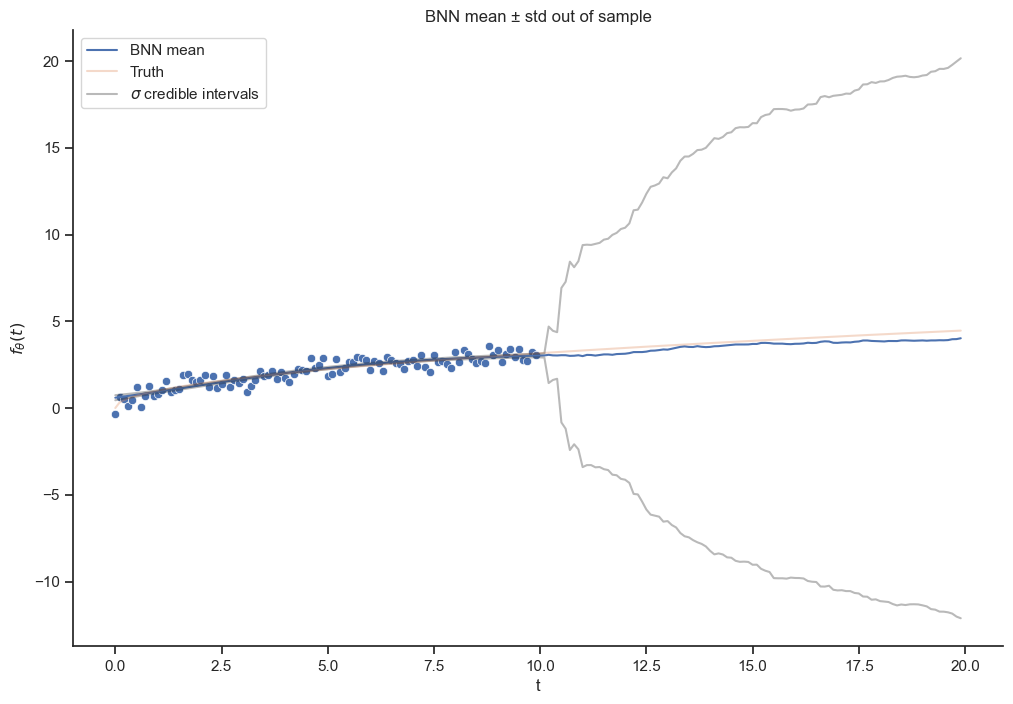
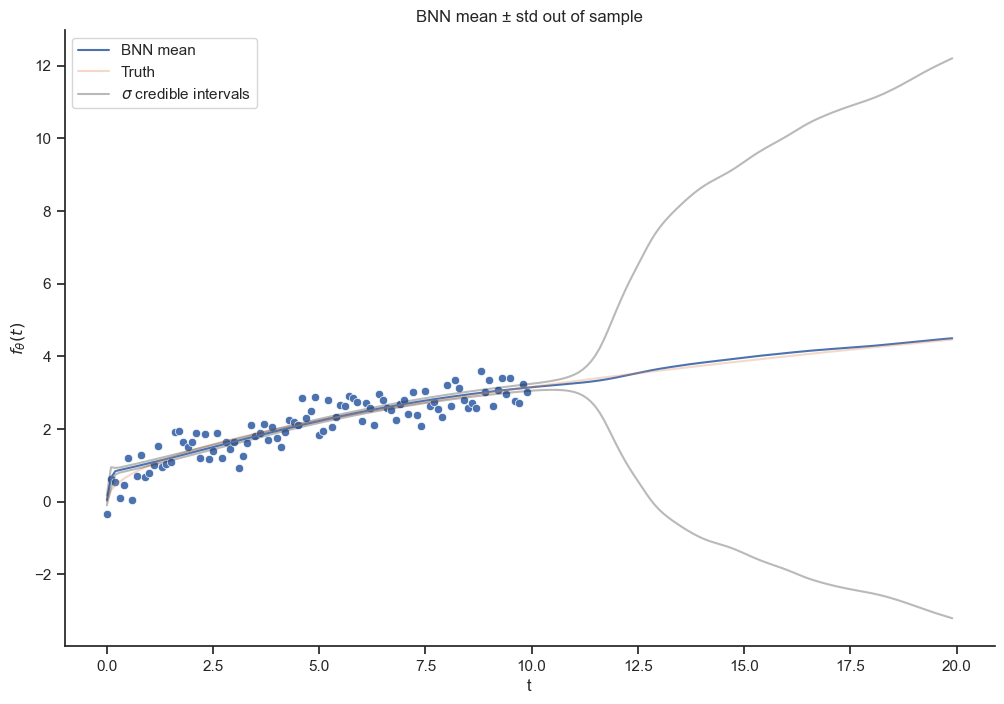
render LLMs 2025

diff --git a/docs/posts/Bayesian Persuasion/bn.html b/docs/posts/Bayesian Persuasion/bn.html
@@ -361,12 +361,12 @@ window.Quarto = {
 <p>We have successfully sampled from the posterior distribution <span class="math inline">\(p(\theta|x)\)</span> and found that <span class="math inline">\(\theta \approx 0.38\)</span> with quite some certainty.</p>
 <p>What about the predicted values <span class="math inline">\(\tilde{x}(t)\)</span> given this model? This is also probabilistic given the posterior distribution of <span class="math inline">\(\theta\)</span>. These values are distributed according to the posterior predictive distribution <span class="math display">\[p(\tilde{x}(t)|x) = \int p(\tilde{x}(t)|\theta ) p(\theta|x(t)) d\theta\]</span></p>
 <p>This involves sampling <span class="math inline">\(\tilde{x}(t) \sim N(\mu_x = \theta t, \sigma_x = 1)\)</span>, but in the following sections we’ll drop the aleatoric uncertainty <span class="math inline">\(\sigma_x\)</span> and only consider the epistemic uncertainty in the model parameters.</p>
-<p>We’re essentially looking for the probability of the mean of <span class="math inline">\(\tilde{x}\)</span> given all our data x by averaging over <span class="math inline">\(\theta\)</span> from the posterior.</p>
+<p>We’re essentially looking for the probability of the mean of <span class="math inline">\(\tilde{x}\)</span> given all our data x by sampling <span class="math inline">\(\theta\)</span> from the posterior.</p>
 <p>For example <span class="math inline">\(\tilde{x}(t=4).\)</span></p>
-<div id="cell-16" class="cell" data-execution_count="28">
+<div id="cell-16" class="cell" data-execution_count="7">
 <div class="sourceCode cell-code" id="cb8"><pre class="sourceCode python code-with-copy"><code class="sourceCode python"><span id="cb8-1"><a href="#cb8-1" aria-hidden="true" tabindex="-1"></a>posterior_predictive_samples<span class="op">=</span>[lm(theta, <span class="dv">4</span>) <span class="cf">for</span> theta <span class="kw">in</span> posterior_samples]</span>
 <span id="cb8-2"><a href="#cb8-2" aria-hidden="true" tabindex="-1"></a>sns.histplot(posterior_predictive_samples, bins<span class="op">=</span><span class="dv">30</span>, stat<span class="op">=</span><span class="st">"probability"</span>)<span class="op">;</span></span>
-<span id="cb8-3"><a href="#cb8-3" aria-hidden="true" tabindex="-1"></a>plt.title(<span class="vs">r"$\mathbf</span><span class="sc">{E}</span><span class="vs">_{\theta \sim p(\theta | x)} [\tilde</span><span class="sc">{x}</span><span class="vs">(t=4)|\theta]$"</span>)<span class="op">;</span></span>
+<span id="cb8-3"><a href="#cb8-3" aria-hidden="true" tabindex="-1"></a>plt.title(<span class="vs">r"$\mathbf</span><span class="sc">{E}</span><span class="vs">[\tilde</span><span class="sc">{x}</span><span class="vs">(t=4)|\theta]$"</span>)<span class="op">;</span></span>
 <span id="cb8-4"><a href="#cb8-4" aria-hidden="true" tabindex="-1"></a>plt.xlabel(<span class="vs">r"$\tilde</span><span class="sc">{x}</span><span class="vs">(t=4)$"</span>)<span class="op">;</span></span></code><button title="Copy to Clipboard" class="code-copy-button"><i class="bi"></i></button></pre></div>
 <div class="cell-output cell-output-display">
 <div>
@@ -506,7 +506,7 @@ window.Quarto = {
 <div class="sourceCode cell-code" id="cb20"><pre class="sourceCode python code-with-copy"><code class="sourceCode python"><span id="cb20-1"><a href="#cb20-1" aria-hidden="true" tabindex="-1"></a><span class="im">import</span> blackjax</span>
 <span id="cb20-2"><a href="#cb20-2" aria-hidden="true" tabindex="-1"></a>rng_key <span class="op">=</span> PRNGKey(<span class="dv">0</span>)</span>
 <span id="cb20-3"><a href="#cb20-3" aria-hidden="true" tabindex="-1"></a>rng_key, rng_subkey <span class="op">=</span> jax.random.split(rng_key)</span>
-<span id="cb20-4"><a href="#cb20-4" aria-hidden="true" tabindex="-1"></a>num_warmup <span class="op">=</span> <span class="dv">100000</span></span>
+<span id="cb20-4"><a href="#cb20-4" aria-hidden="true" tabindex="-1"></a>num_warmup <span class="op">=</span> <span class="dv">10000</span></span>
 <span id="cb20-5"><a href="#cb20-5" aria-hidden="true" tabindex="-1"></a>num_samples <span class="op">=</span> <span class="dv">5000</span></span></code><button title="Copy to Clipboard" class="code-copy-button"><i class="bi"></i></button></pre></div>
 </div>
 <div id="cell-37" class="cell" data-execution_count="20">
@@ -546,8 +546,8 @@ window.Quarto = {
 <span id="cb25-5"><a href="#cb25-5" aria-hidden="true" tabindex="-1"></a>t_oos<span class="op">=</span>jnp.arange(<span class="dv">0</span>,<span class="dv">20</span>,<span class="fl">.1</span>)</span>
 <span id="cb25-6"><a href="#cb25-6" aria-hidden="true" tabindex="-1"></a>res_oos <span class="op">=</span> jax.vmap(eval_fn, in_axes<span class="op">=</span>(<span class="dv">0</span>, <span class="va">None</span>))(posterior_params, t_oos).squeeze()</span></code><button title="Copy to Clipboard" class="code-copy-button"><i class="bi"></i></button></pre></div>
 </div>
-<p>Here we’ve taken posterior samples of the neural network parameters <span class="math inline">\(\theta\)</span> and evaluated the model with them, collecting the different outputs. This yields samples of the model’s mean prediction.</p>
-<p>It is also possible to sample from the full posterior predictive distribution by including the variance from the likelihood, but we’ll stick with the mean prediction. You can also estimate the aleatoric uncertainty, here we arbitrarily set it to <span class="math inline">\(\sigma=0.5\)</span>. If this is your goal I would recommend using a PPL.</p>
+<p>Here we’ve taken posterior samples of the neural network parameters <span class="math inline">\(\theta\)</span> and evaluated the model with them, collecting the different outputs. This yields samples of the model’s mean prediction given <span class="math inline">\(\theta\)</span> from the posterior.</p>
+<p>It is also possible to sample from the full posterior predictive distribution by including the aleatoric uncertainty from the likelihood <span class="math inline">\(\sigma\)</span>, but we’ll stick with the mean prediction. You can also estimate <span class="math inline">\(\sigma\)</span>, here we arbitrarily set it to <span class="math inline">\(\sigma=0.5\)</span>. If this is your goal I would recommend using a PPL.</p>
 <div id="cell-43" class="cell" data-execution_count="25">
 <div class="sourceCode cell-code" id="cb26"><pre class="sourceCode python code-with-copy"><code class="sourceCode python"><span id="cb26-1"><a href="#cb26-1" aria-hidden="true" tabindex="-1"></a>df_res<span class="op">=</span>pd.DataFrame(res).T</span>
 <span id="cb26-2"><a href="#cb26-2" aria-hidden="true" tabindex="-1"></a>df_oos<span class="op">=</span>pd.DataFrame(res_oos).T</span></code><button title="Copy to Clipboard" class="code-copy-button"><i class="bi"></i></button></pre></div>
@@ -592,8 +592,12 @@ window.Quarto = {
 </div>
 </div>
 </div>
-<p>When using a BNN our predictions are samples drawn from the posterior predictive distribution, this has the benefit of informing us about the model’s uncertainty (about the model parameters in this case). In-sample the model fits the data quite well with no obvious overfitting. We see that the standard deviation grows when we try to extrapolate. Maybe someday LLMs will have this feature instead of confidently recommending eating rocks.</p>
-<p><img src="GPT_rocks.jpeg" class="img-fluid"></p>
+<p>When using a BNN our predictions are generally samples drawn from the posterior predictive distribution, this has the benefit of informing us about the model’s uncertainty (about the model parameters in this case). In-sample the model fits the data quite well with no obvious overfitting. We see that the standard deviation grows when we try to extrapolate. Maybe someday LLMs will have this feature instead of confidently recommending eating rocks.</p>
+<div data-align="center">
+<figure class="figure">
+<img src="GPT_rocks.jpeg" style="margin: auto;" class="figure-img">
+</figure>
+</div>
 
 
 </section>

diff --git a/docs/index.html b/docs/index.html
@@ -205,7 +205,7 @@ window.Quarto = {
 
 <div class="quarto-listing quarto-listing-container-grid" id="listing-listing">
 <div class="list grid quarto-listing-cols-3">
-<div class="g-col-1" data-index="0" data-categories="TWFjaGluZSUyMExlYXJuaW5nJTJDTExNcw==" data-listing-date-sort="1739574000000" data-listing-file-modified-sort="1739641675614" data-listing-date-modified-sort="NaN" data-listing-reading-time-sort="4" data-listing-word-count-sort="661">
+<div class="g-col-1" data-index="0" data-categories="TWFjaGluZSUyMExlYXJuaW5nJTJDTExNcw==" data-listing-date-sort="1739574000000" data-listing-file-modified-sort="1739642420767" data-listing-date-modified-sort="NaN" data-listing-reading-time-sort="4" data-listing-word-count-sort="661">
 <a href="./posts/LLMs 2025/LLMs.html" class="quarto-grid-link">
 <div class="quarto-grid-item card h-100 card-left">
 <p class="card-img-top"><img src="posts\LLMs 2025\dynamics.png" style="height: 150px;"  class="thumbnail-image card-img"/></p>
@@ -236,7 +236,7 @@ Feb 15, 2025
 </div>
 </a>
 </div>
-<div class="g-col-1" data-index="1" data-categories="TWFjaGluZSUyMExlYXJuaW5nJTJDUGh5c2ljcw==" data-listing-date-sort="1738018800000" data-listing-file-modified-sort="1738086222236" data-listing-date-modified-sort="NaN" data-listing-reading-time-sort="6" data-listing-word-count-sort="1097">
+<div class="g-col-1" data-index="1" data-categories="TWFjaGluZSUyMExlYXJuaW5nJTJDUGh5c2ljcw==" data-listing-date-sort="1738018800000" data-listing-file-modified-sort="1739642422219" data-listing-date-modified-sort="NaN" data-listing-reading-time-sort="6" data-listing-word-count-sort="1098">
 <a href="./posts/Nondimensional Features/ndim.html" class="quarto-grid-link">
 <div class="quarto-grid-item card h-100 card-left">
 <p class="card-img-top"><img src="posts\Nondimensional Features\pendulumswing.jpg" style="height: 150px;"  class="thumbnail-image card-img"/></p>
@@ -267,7 +267,7 @@ Jan 28, 2025
 </div>
 </a>
 </div>
[2 lines of base64/hex data omitted]
 <a href="./posts/Bayesian Persuasion/bn.html" class="quarto-grid-link">
 <div class="quarto-grid-item card h-100 card-left">
 <p class="card-img-top"><img src="posts\Bayesian Persuasion\bn_files\figure-html\cell-2-output-1.png" style="height: 150px;"  class="thumbnail-image card-img"/></p>

diff --git a/docs/posts/Nondimensional Features/ndim.html b/docs/posts/Nondimensional Features/ndim.html
@@ -227,7 +227,9 @@ window.Quarto = {
 <h2 class="anchored" data-anchor-id="dimensional-analysis">Dimensional Analysis</h2>
 <p>When dealing with machine learning problems for physical systems the quantities we use as features and targets have <em>dimensionality</em>.</p>
 <p>For example consider a simple pendulum of length l <span class="math inline">\([L]\)</span>, mass m <span class="math inline">\([M]\)</span>, gravitational (acceleration) constant g <span class="math inline">\([L T^{-2}]\)</span>, where we want to learn the frequency f <span class="math inline">\([T^{-1}]\)</span>.</p>
+<div data-align="center">
 <p><img src="pendulumswing.jpg" width="320" style="display=block; margin-left:auto; margin-right:auto"></p>
+</div>
 <p>We could feed these features as-is to a machine learning model that might do very well on lab generated data, but would it be able to generalize to let’s say a pendulum the size of a carnival ride or a pendulum on the moon?</p>
 <p>In order to help the model we could try to incorporate some physics knowledge. The basic idea of dimensional analysis is that for any equation the dimensions must match on the left- and right hand sides.</p>
 <p>By ansatz:</p>
